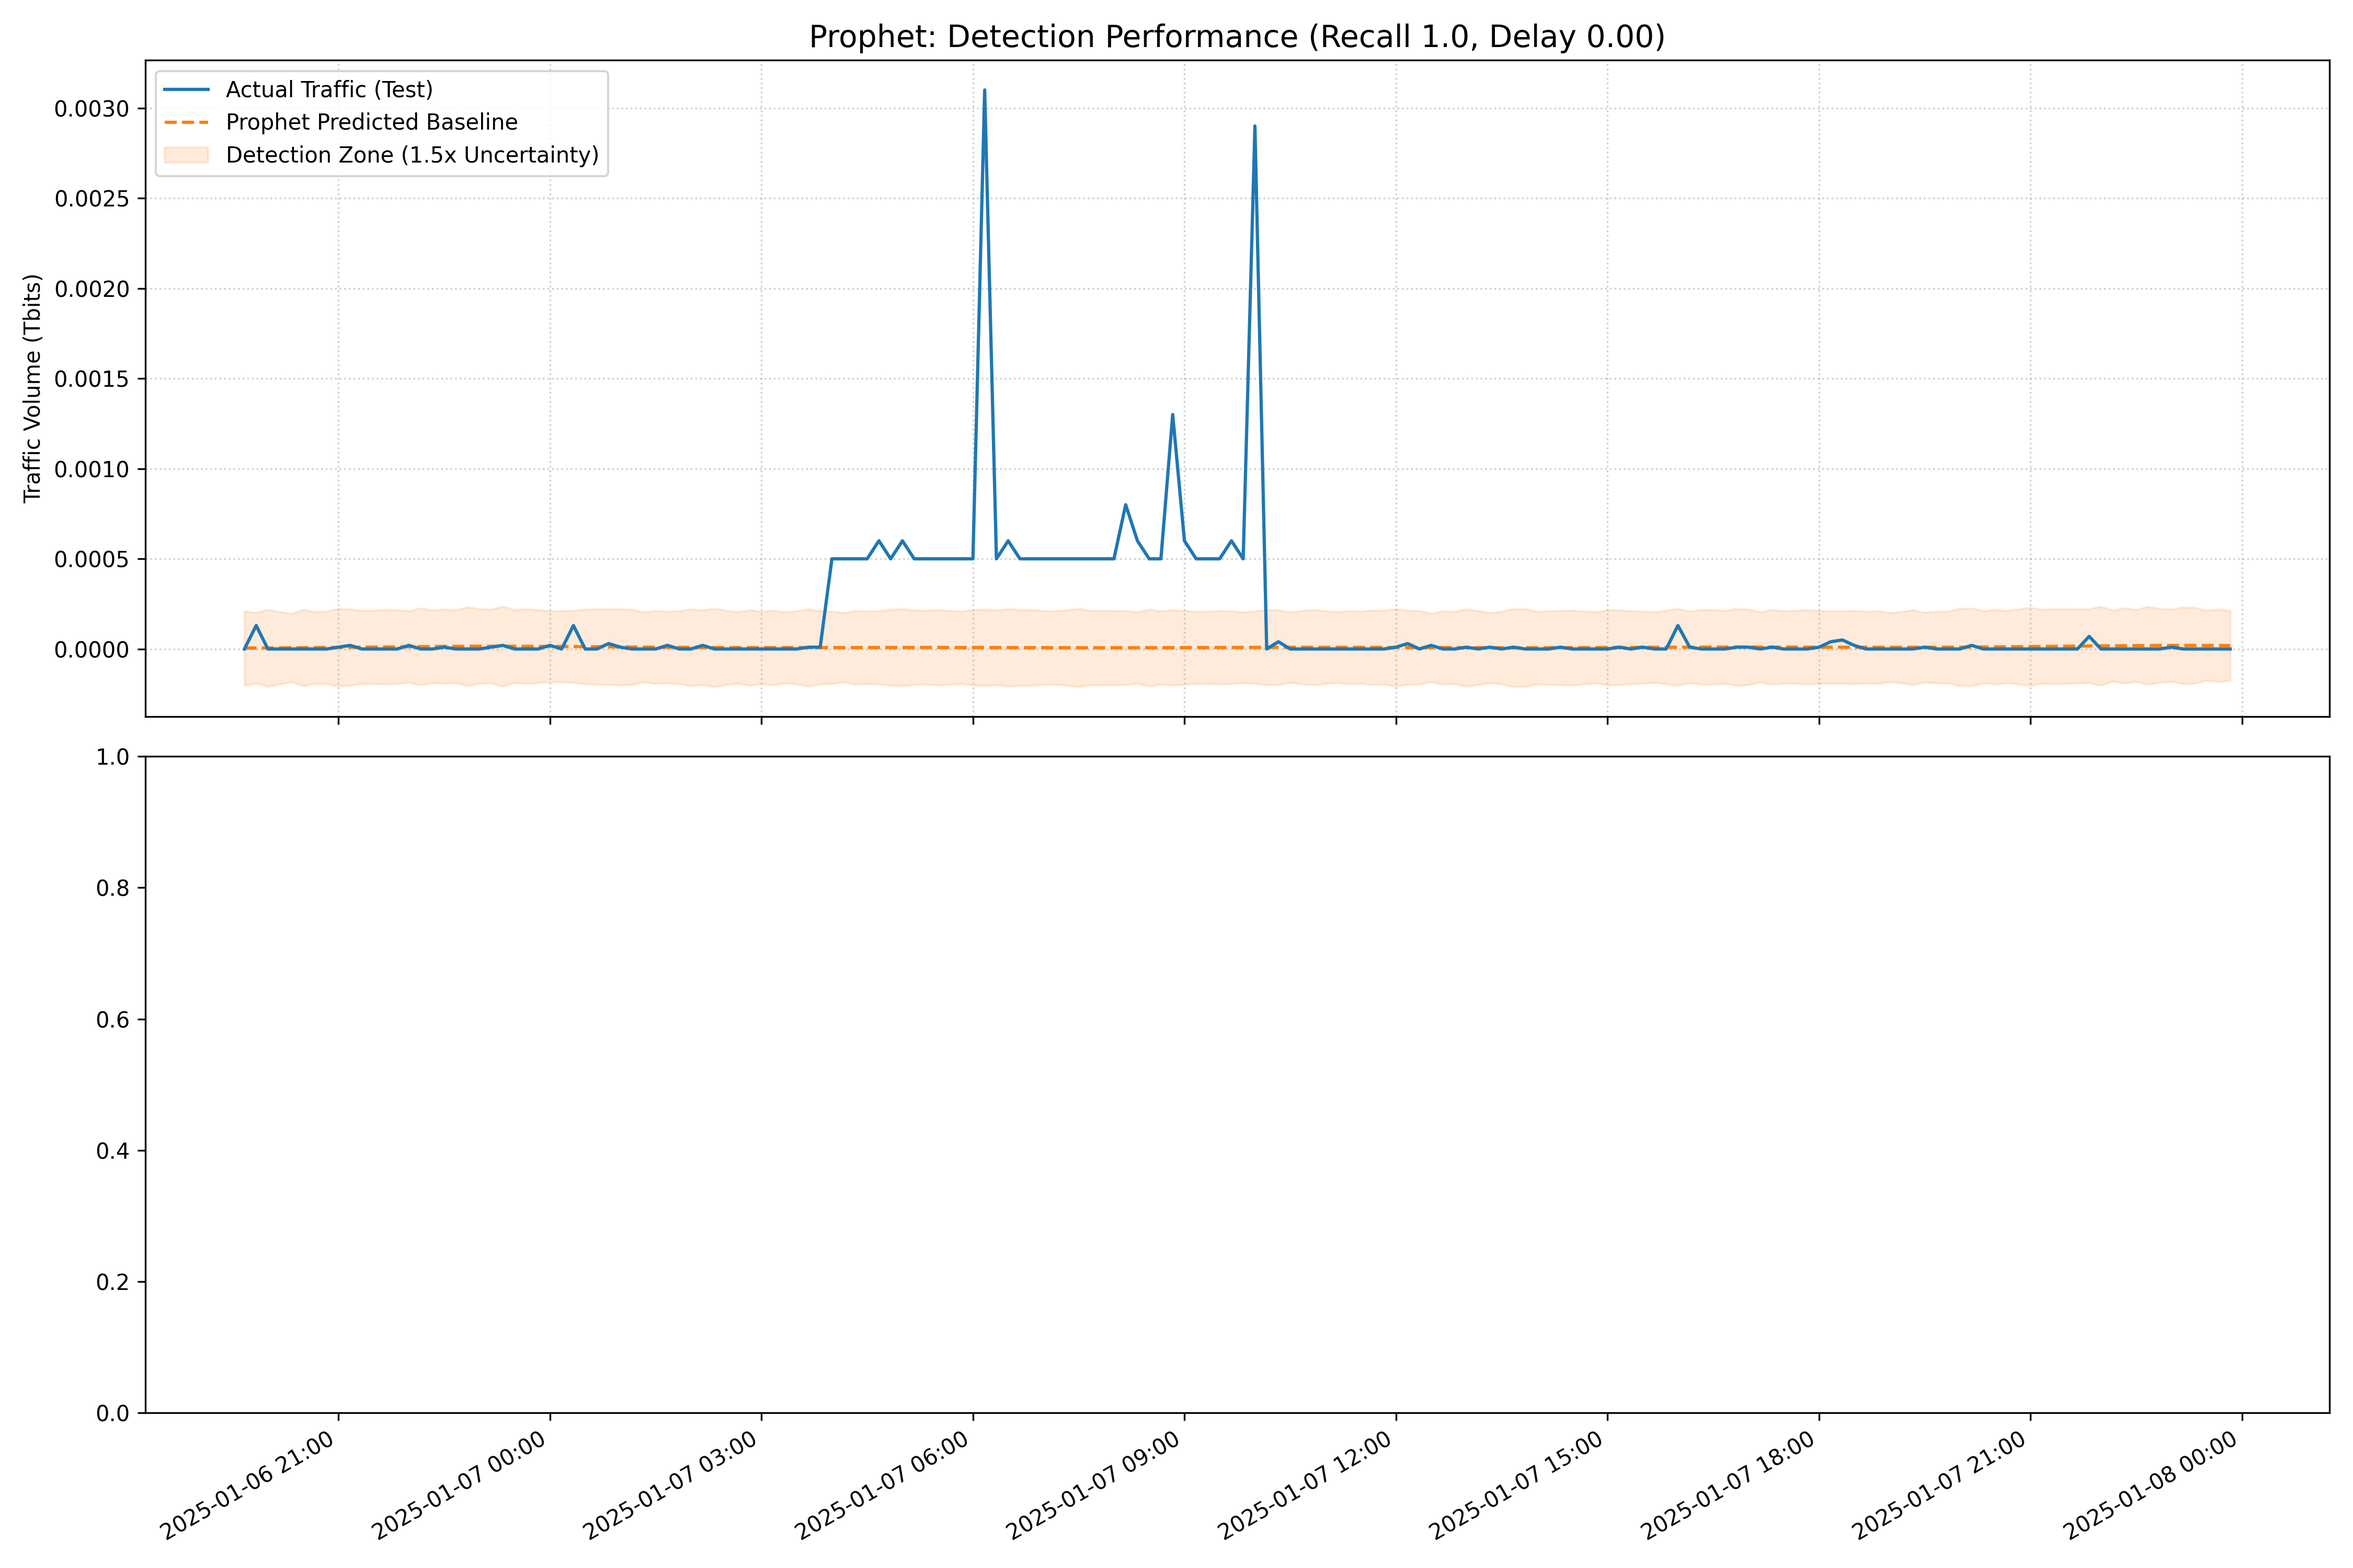
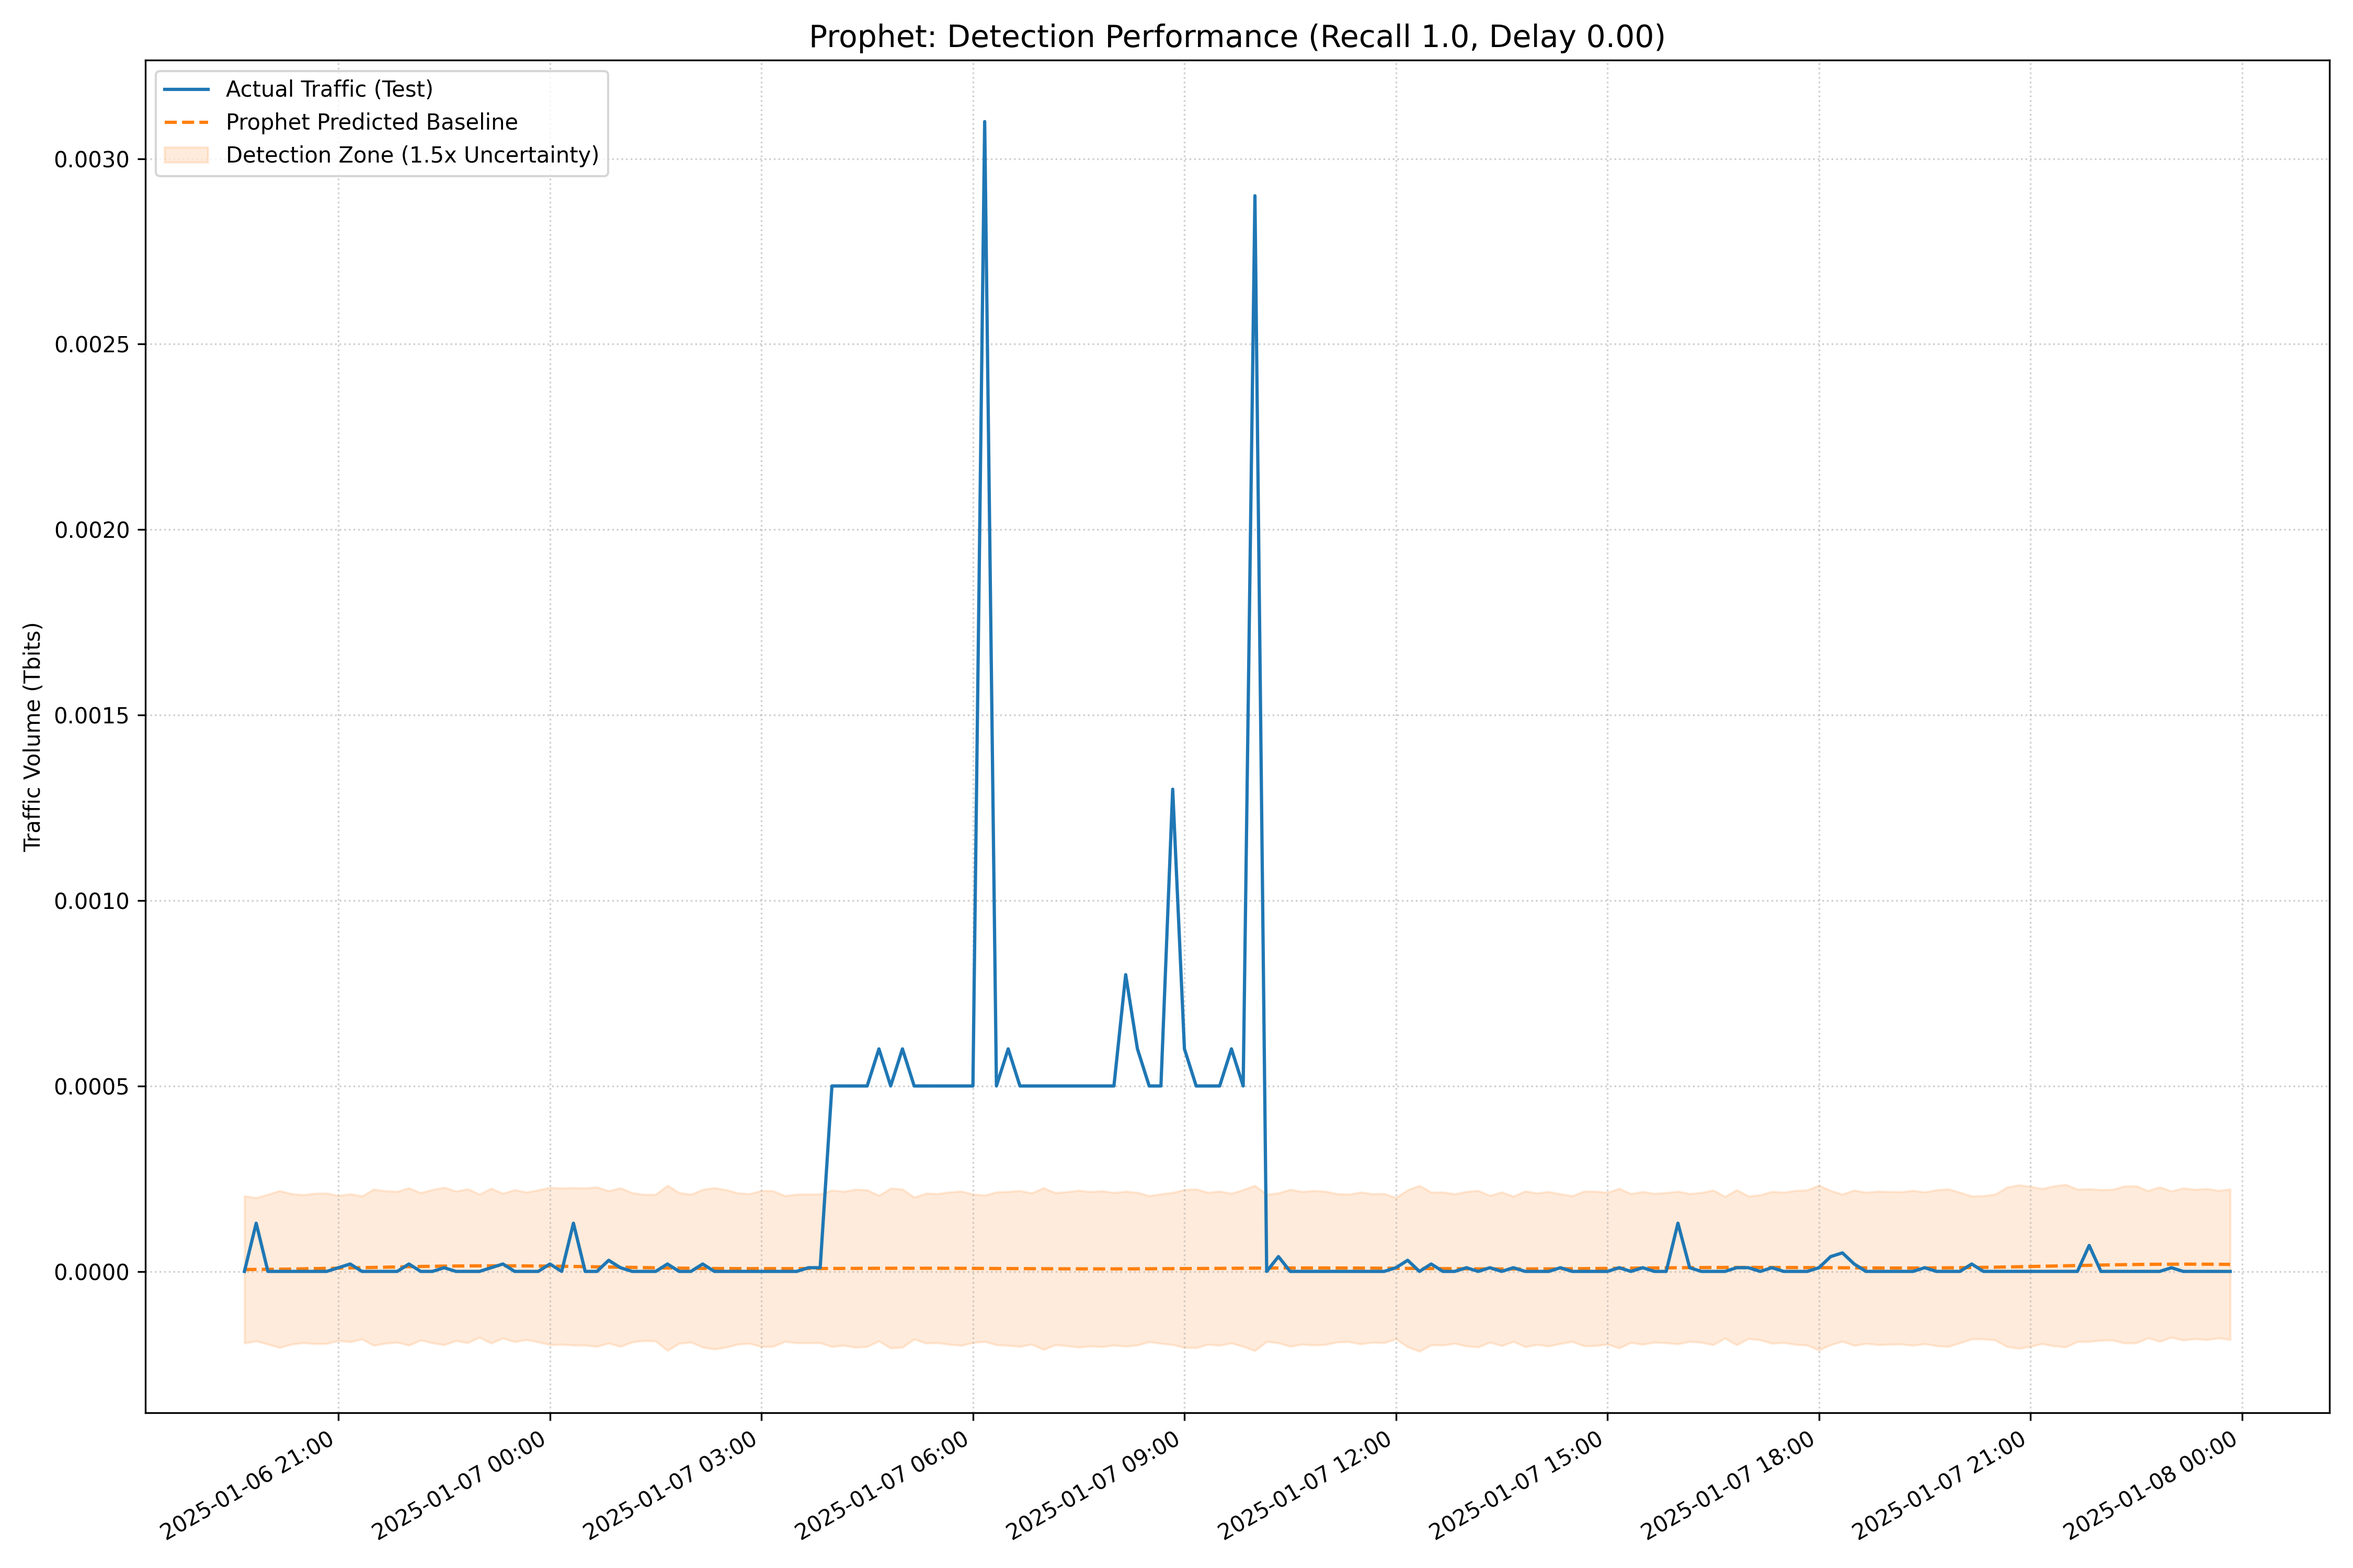
1

diff --git a/visualize_prophet.py b/visualize_prophet.py
@@ -62,7 +62,7 @@ def visualize_prophet_force_aligned():
         plot_df = df_pred.iloc[:200].copy()
 
     # 8. Visualization with Clean Timestamps
-    fig, (ax1, ax2) = plt.subplots(2, 1, figsize=(15, 10), sharex=True)
+    fig, (ax1) = plt.subplots(1, 1, figsize=(15, 10), sharex=True)
 
     # Top Panel: Detection Boundaries
     ax1.plot(plot_df['ds'], plot_df['y'], label='Actual Traffic (Test)', color='#1f77b4', zorder=3)
@@ -81,7 +81,7 @@ def visualize_prophet_force_aligned():
 
     plt.tight_layout()
     plt.savefig("prophet_visual.png", dpi=300)
-    print("Success: Visualization saved to prophet_recall_visual.png")
+    print("Success: Visualization saved to prophet_visual.png")
     plt.show()
 
 if __name__ == "__main__":
